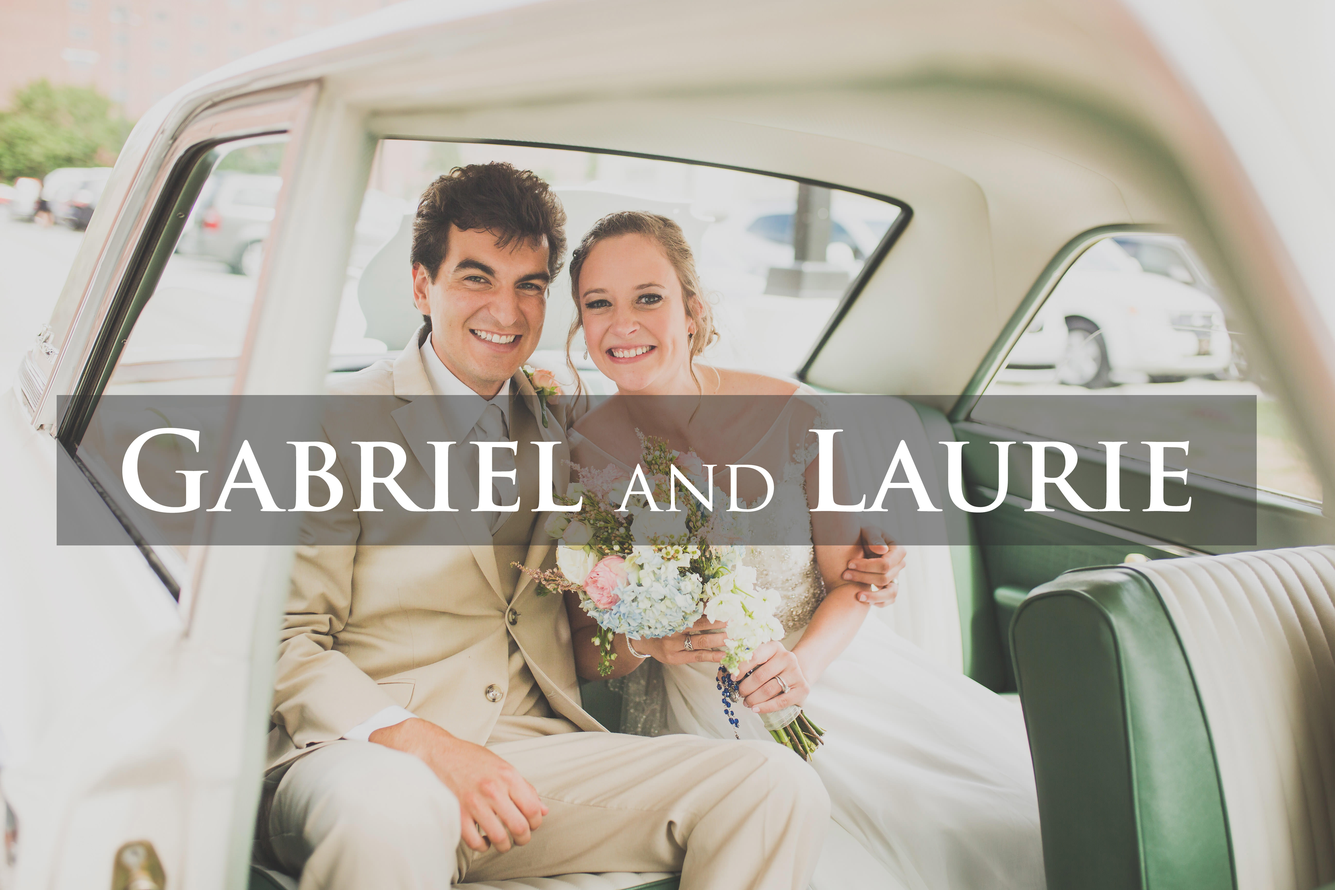
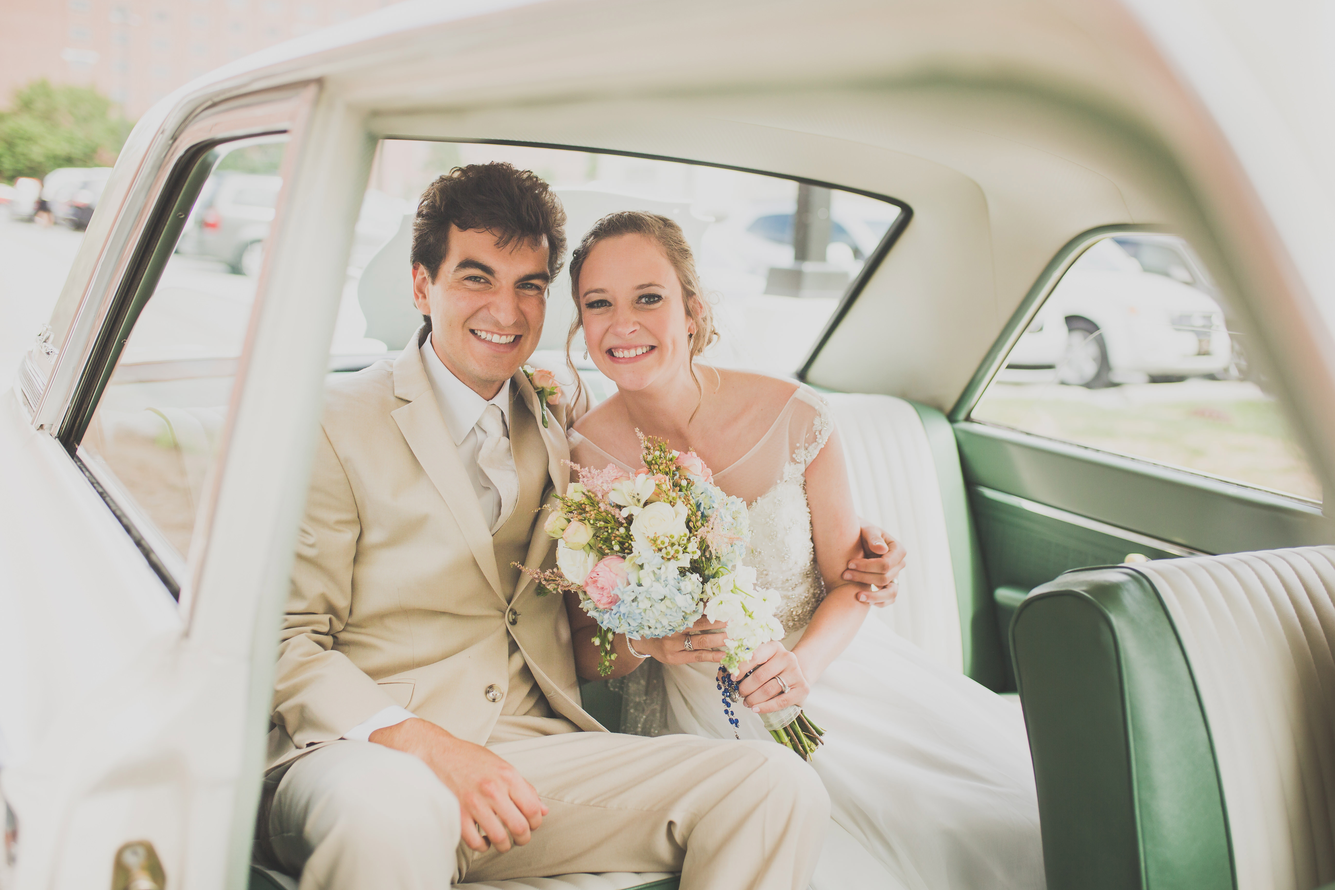
transitions

Changed region(s): [[0.0312, 0.4375, 0.9688, 0.625]]

diff --git a/wedding.css b/wedding.css
@@ -73,21 +73,84 @@ h1{
     text-align: center;
 }
 
+button{
+    width: clamp(250px, 100%, 600px);
+    padding: 3px 0;
+    text-align: center;
+    margin: 20px 2px;
+    background: transparent;
+    font-size: 60px;
+    font-family:'Segoe UI', Tahoma, Geneva, Verdana, sans-serif;
+    cursor: pointer;
+    position: relative;
+    z-index: 1;
+    border-color: transparent;
+    overflow: hidden;
+    color:transparent;
+}
+
+.button1:hover{
+    background-color: rgb(255, 255, 255);
+    transition: 0.5s;
+    color:rgba(255, 255, 255);
+    padding: 5px;
+    filter: grayscale(100%);
+}
+
+.button1:hover::before{
+    content: "Gabriel and Laurie";
+    position:absolute;
+    top: 50%;
+    left: 50%;
+    transform: translate(-50%, -50%);
+    white-space: nowrap;
+    background-color: rgba(54, 54, 54, 0.479);
+    padding: 2px 20px;
+}
+
+.button2:hover{
+    background-color: rgb(255, 255, 255);
+    transition: 0.5s;
+    color:rgba(255, 255, 255);
+    padding: 5px;
+    filter: grayscale(100%);
+}
+
+.button2:hover::before{
+    content: "Darius and Jaclyn";
+    position:absolute;
+    top: 50%;
+    left: 50%;
+    transform: translate(-50%, -50%);
+    white-space: nowrap;
+    background-color: rgba(54, 54, 54, 0.479);
+    padding: 2px 20px;
+}
 .photo img {
     width: clamp(250px, 100%, 600px);
     padding: 4px;
 }
 
-img:hover{
-    color:black;
+.button3:hover{
+    background-color: rgb(255, 255, 255);
+    transition: 0.5s;
+    color:rgba(255, 255, 255);
+    padding: 5px;
     filter: grayscale(100%);
-    transition: .3s;
-    padding: 10px;
 }
 
+.button3:hover::before{
+    content: "Jon and Hope";
+    position:absolute;
+    top: 50%;
+    left: 50%;
+    transform: translate(-50%, -50%);
+    white-space: nowrap;
+    background-color: rgba(54, 54, 54, 0.479);
+    padding: 2px 20px;
+}
 .photos {
     display: flex;
     flex-wrap: wrap;
     justify-content: center;
 }
-

diff --git a/wedding.html b/wedding.html
@@ -23,11 +23,11 @@
                 <div class = "heading">
                     <h1>Galleries</h1>
                 </div>
-                <div class = "photo">
-                    <img src=..\images\A13P1815.jpg>
-                    <img src=..\images\AA8Y4164.jpg>
-                    <img src= ..\images\template.jpg>
-                </div>
+                <div class="photo">
+                    <button type = "button" class="button1"><img src="../images/A13P1815.jpg" alt="Image 1"></button>
+                    <button type = "button" class="button2"><img src="../images/AA8Y4164.jpg" alt="Image 2"></button>
+                    <button type = "button" class="button3"><img src="../images/template.jpg" alt="Image 3"></button>
+                  </div>               
             </div>
         </div>
     </body>

diff --git a/index.html b/index.html
@@ -12,7 +12,7 @@
             <img src="../../images/A13P1136.jpg" class = "bg">
         </div>
             <div class="content">
-                <h1><img src="..\images\logo.png" class = "logo"></h1>
+                <h1><img src="../images/logo.png" class = "logo"></h1>
                 <div class = "wedbtn">
                     <a href="index.html"><button type="button"><span></span>Home</button></a>
                     <a href="wedding.html"><button type="button"><span></span>Galleries</button></a>

diff --git a/style.css b/style.css
@@ -55,7 +55,6 @@ button{
     cursor: pointer;
     position: relative;
     overflow: hidden;
-    background: transparent;
     z-index: 1;
 }
 
